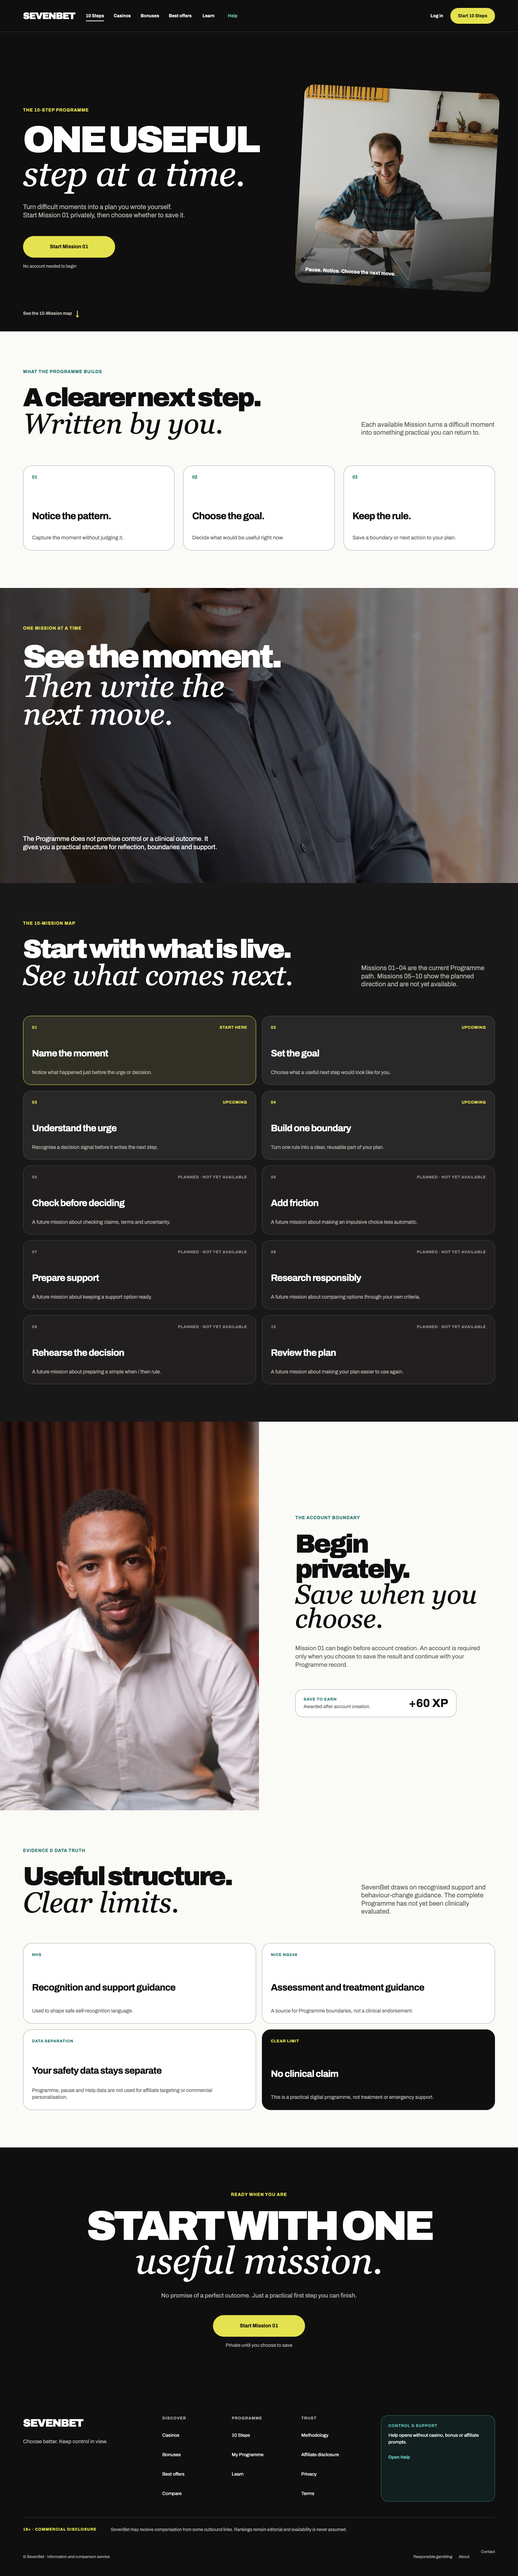
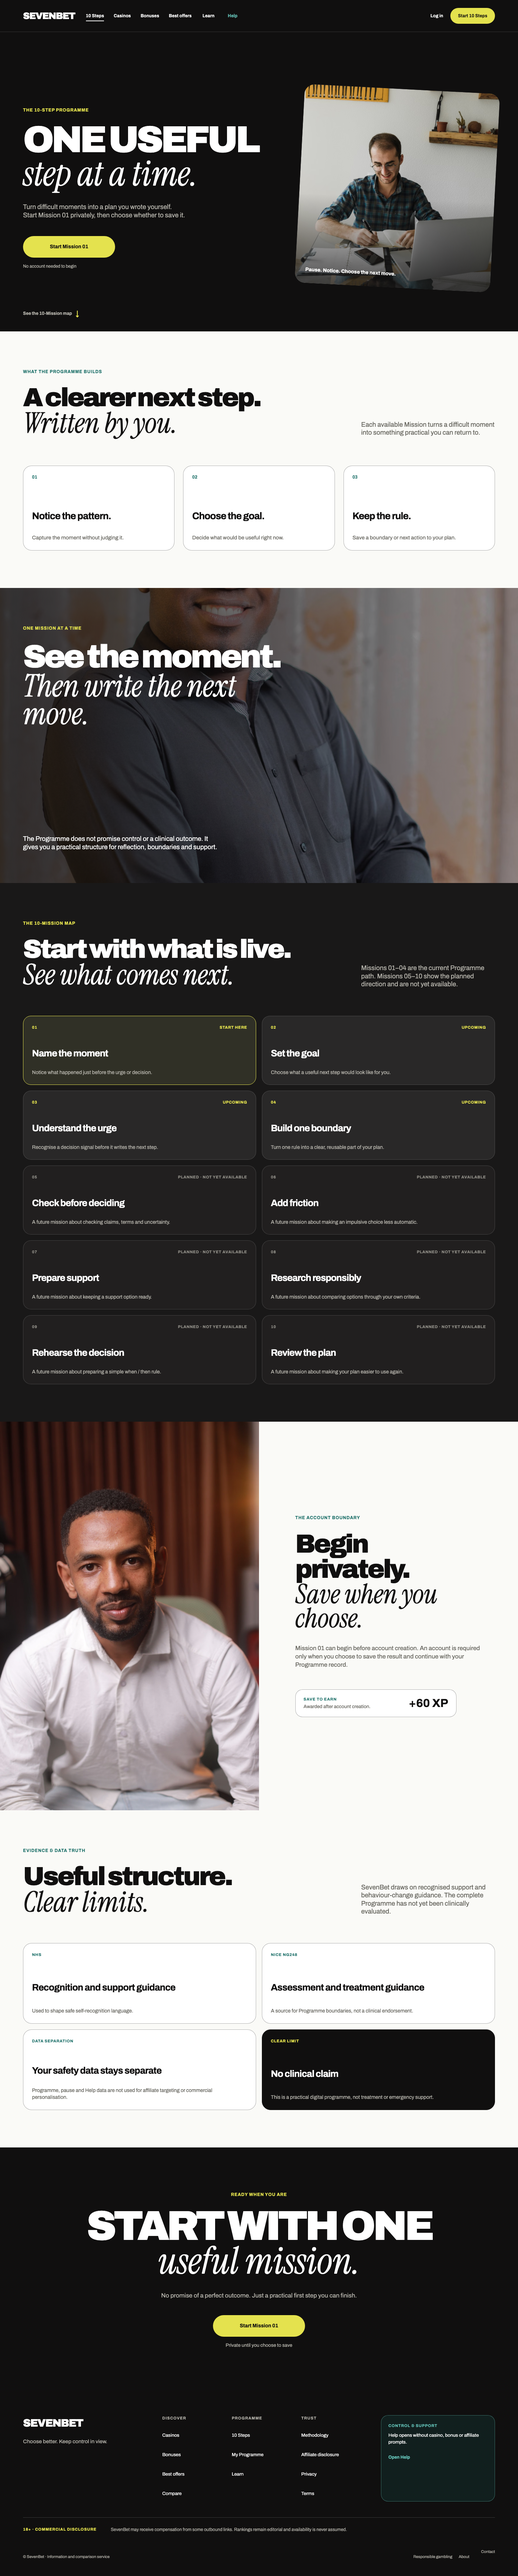
fix(frontend): bind approved 10 Steps serif

diff --git a/app/(public)/10-steps/page.tsx b/app/(public)/10-steps/page.tsx
@@ -1,4 +1,5 @@
 import type { Metadata } from "next";
+import { Instrument_Serif } from "next/font/google";
 
 import { TenStepsLanding } from "./TenStepsLanding";
 import { getServerSession } from "@/lib/auth/session";
@@ -7,6 +8,14 @@ import { absoluteUrl } from "@/lib/site";
 import { resolveTenStepsLandingState } from "@/lib/ten-steps-landing";
 
 export const dynamic = "force-dynamic";
+
+const instrumentSerif = Instrument_Serif({
+  subsets: ["latin"],
+  style: ["normal", "italic"],
+  weight: "400",
+  variable: "--font-seven-serif",
+  display: "swap",
+});
 
 export const metadata: Metadata = {
   title: "10 Steps Before You Choose | SevenBet",
@@ -21,5 +30,9 @@ export default async function TenStepsPage() {
     getDashboard: (userId) => programmeDashboardService.getDashboard(userId),
   });
 
-  return <TenStepsLanding state={state} />;
+  return (
+    <div className={instrumentSerif.variable}>
+      <TenStepsLanding state={state} />
+    </div>
+  );
 }

diff --git a/app/(public)/10-steps/TenStepsLanding.module.css b/app/(public)/10-steps/TenStepsLanding.module.css
@@ -21,7 +21,7 @@
 .page *, .page *::before, .page *::after { box-sizing: border-box; }
 .page :focus-visible { outline: 3px solid var(--acid); outline-offset: 4px; }
 .page h1, .page h2, .page p, .page figure { margin: 0; }
-.page em { font-family: Georgia, "Times New Roman", serif; font-weight: 400; }
+.page em { font-family: var(--font-seven-serif), Georgia, "Times New Roman", serif; font-weight: 400; }
 
 .primaryButton,
 .secondaryButton {

diff --git a/docs/02_Product_Design/qa/fe-mig-03/README.md b/docs/02_Product_Design/qa/fe-mig-03/README.md
@@ -88,7 +88,7 @@ After implementation:
 - `npx playwright test tests/ten-steps-browser.spec.ts` — 13/13 passed.
 - Combined Home, Public Shell, public-casino and 10 Steps browser regressions — 52/52 passed against `next start`.
 - `npm run typecheck` — passed.
-- `npm run build` — passed.
+- `npm run build` — passed; `/10-steps` is dynamic/server-rendered, route size is 810 B and First Load JS is 107 kB. No route Client Component was added.
 - Full Node suite — 218/225 passed; the same seven date-dependent Mission 04 `reviewAt` fixtures fail because their fixed date is no longer within the validator's next-30-days window. This baseline debt predates and is outside FE-MIG-03.
 - `npm run lint` — not a usable non-interactive gate: the repository still invokes deprecated `next lint` and prompts for initial ESLint configuration.
 - `git diff --check` — passed.
